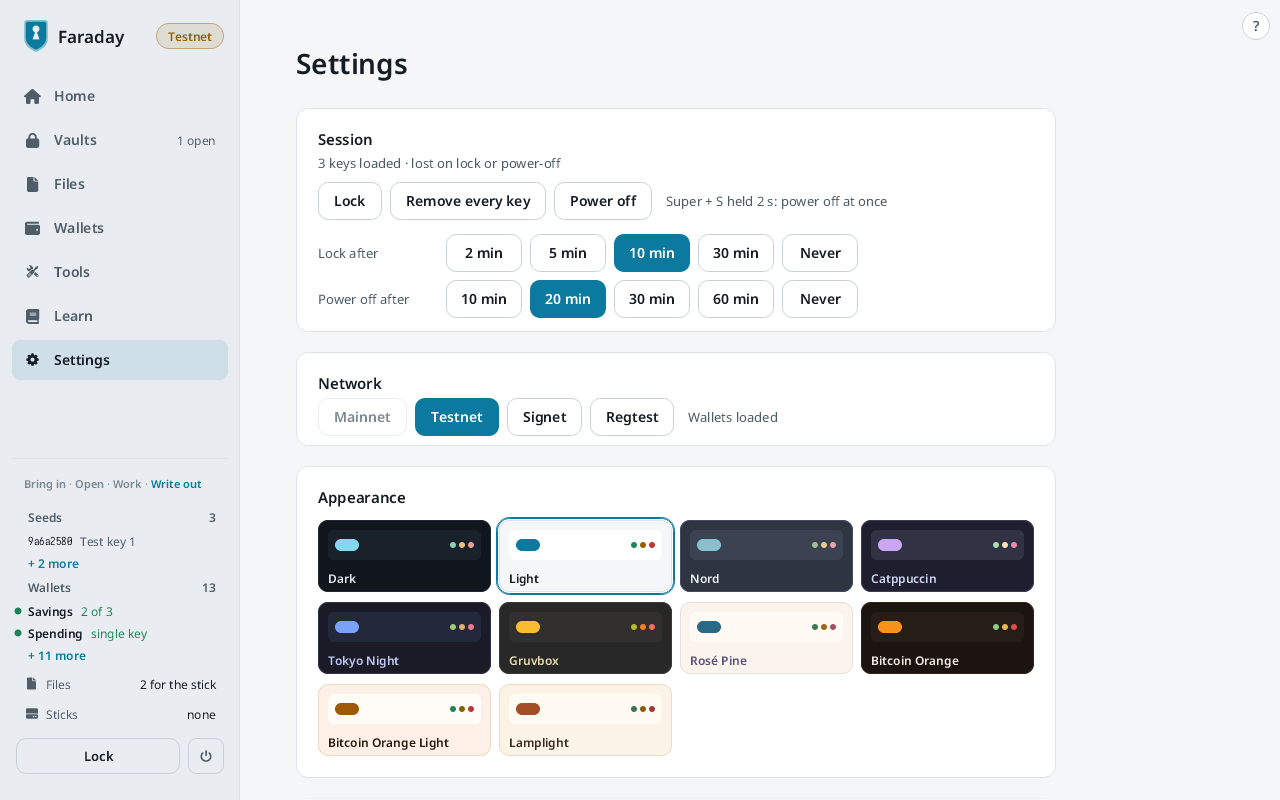
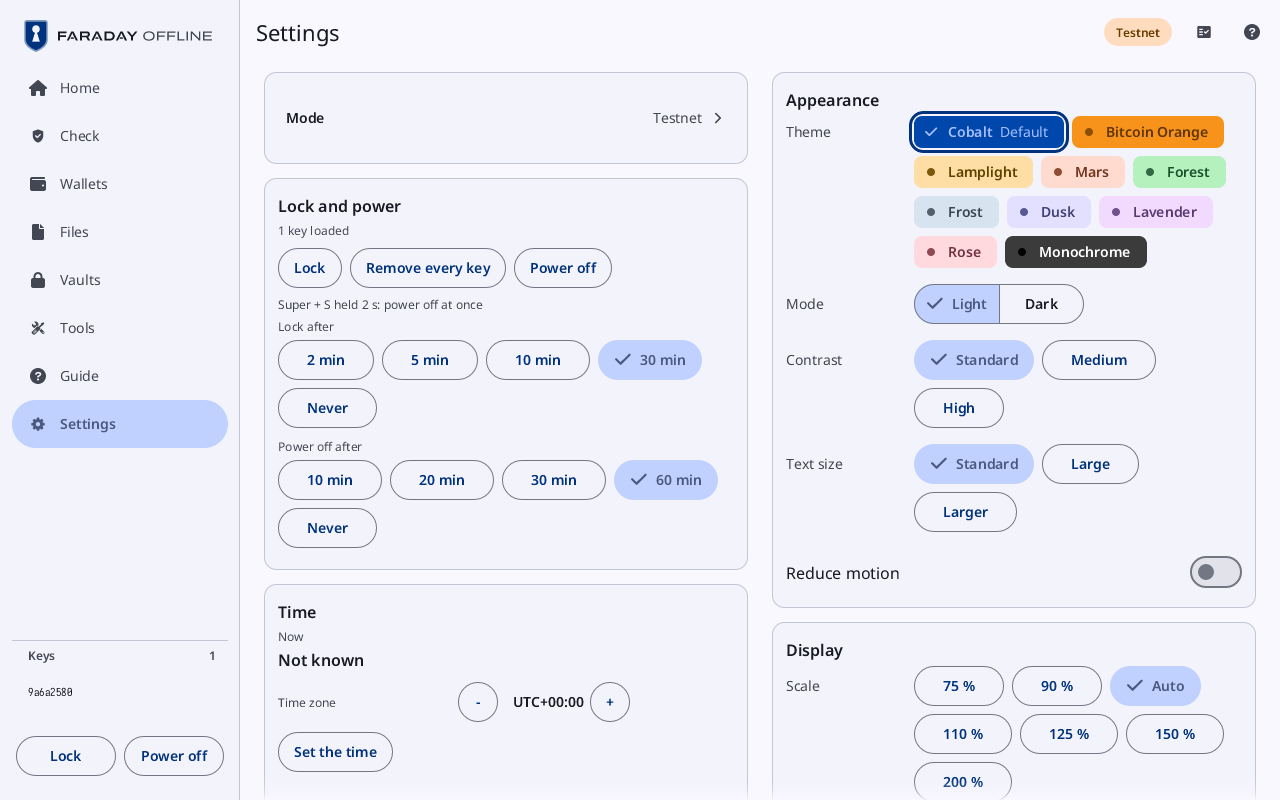
The README's screenshots show the app as it is now
The eight pictures are rendered again from the current screens, at the sizes the old ones had, with their alt texts saying what each shows.

Claude-Session: https://claude.ai/code/session_01Nu65ePewq5B2nDJmFL6z1R

diff --git a/README.md b/README.md
@@ -65,16 +65,16 @@ The stick image on a PC, at 1280×800.
 
 <table>
 <tr>
-<td width="50%"><img src="docs/screenshots/pc-home.png" alt="Home" width="100%"></td>
-<td width="50%"><img src="docs/screenshots/pc-tools.png" alt="Tools" width="100%"></td>
+<td width="50%"><img src="docs/screenshots/pc-home.png" alt="Home: Make a new wallet, Restore an existing wallet, Spend from a backup" width="100%"></td>
+<td width="50%"><img src="docs/screenshots/pc-tools.png" alt="Tools: the tool cards under Common and Keys and seeds, with the search box" width="100%"></td>
 </tr>
 <tr>
 <td>Home</td>
 <td>Tools: every flow, with its standards</td>
 </tr>
 <tr>
-<td width="50%"><img src="docs/screenshots/pc-new-key-dice.png" alt="A new key from die rolls, its randomness check" width="100%"></td>
-<td width="50%"><img src="docs/screenshots/pc-settings.png" alt="Settings" width="100%"></td>
+<td width="50%"><img src="docs/screenshots/pc-new-key-dice.png" alt="Make a new key, Rolls step: 99 of 99 rolls typed and the randomness check" width="100%"></td>
+<td width="50%"><img src="docs/screenshots/pc-settings.png" alt="Settings: Mode, Lock and power, Time, Appearance and Display" width="100%"></td>
 </tr>
 <tr>
 <td>A new BIP-39 key from 99 die rolls: the randomness check on the
@@ -88,10 +88,10 @@ touch.
 
 <table>
 <tr>
-<td width="25%"><img src="docs/screenshots/pi-home.png" alt="Home" width="100%"></td>
-<td width="25%"><img src="docs/screenshots/pi-new-key-rolls.png" alt="A new key from dice rolls" width="100%"></td>
-<td width="25%"><img src="docs/screenshots/pi-add-a-key.png" alt="Typing a seed's words" width="100%"></td>
-<td width="25%"><img src="docs/screenshots/pi-restore-m-of-n.png" alt="Restore's Quorum card, 2 of 3" width="100%"></td>
+<td width="25%"><img src="docs/screenshots/pi-home.png" alt="Home: 0 files and no stick, Make a new wallet, Check, Wallets" width="100%"></td>
+<td width="25%"><img src="docs/screenshots/pi-new-key-rolls.png" alt="Make a new key, Rolls step: 16 of 70 rolls, the face buttons" width="100%"></td>
+<td width="25%"><img src="docs/screenshots/pi-add-a-key.png" alt="Add a key, Words step: 24 words typed, checksum correct" width="100%"></td>
+<td width="25%"><img src="docs/screenshots/pi-restore-m-of-n.png" alt="Restore an existing wallet, Quorum step: 2 of 3 signatures" width="100%"></td>
 </tr>
 </table>
 
